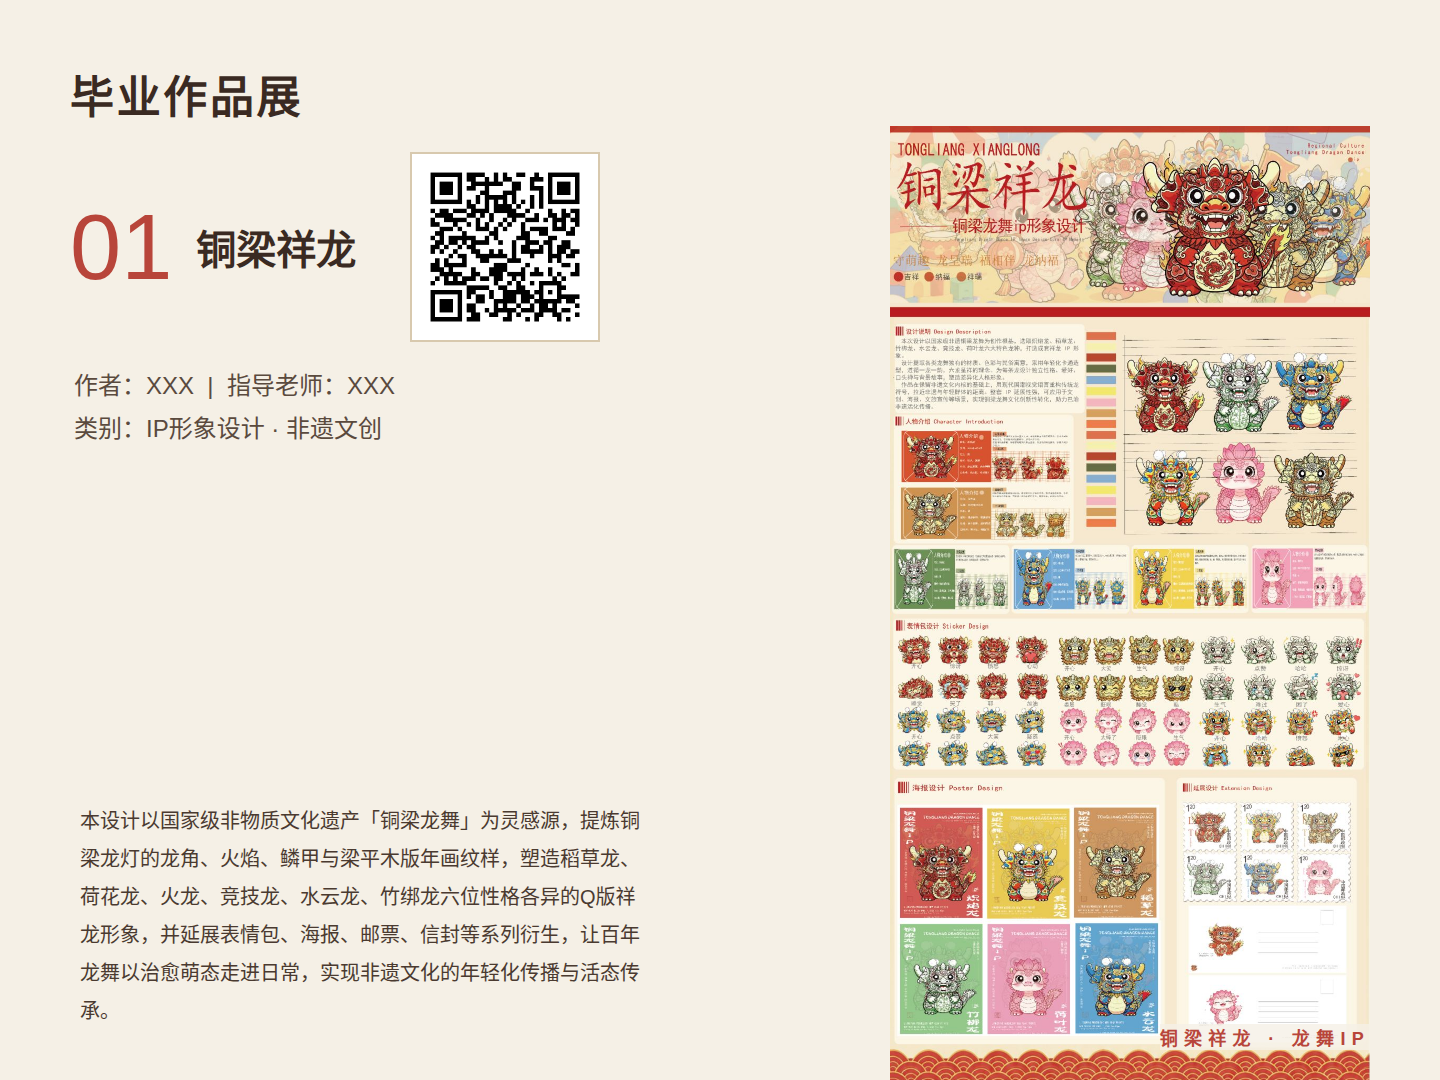
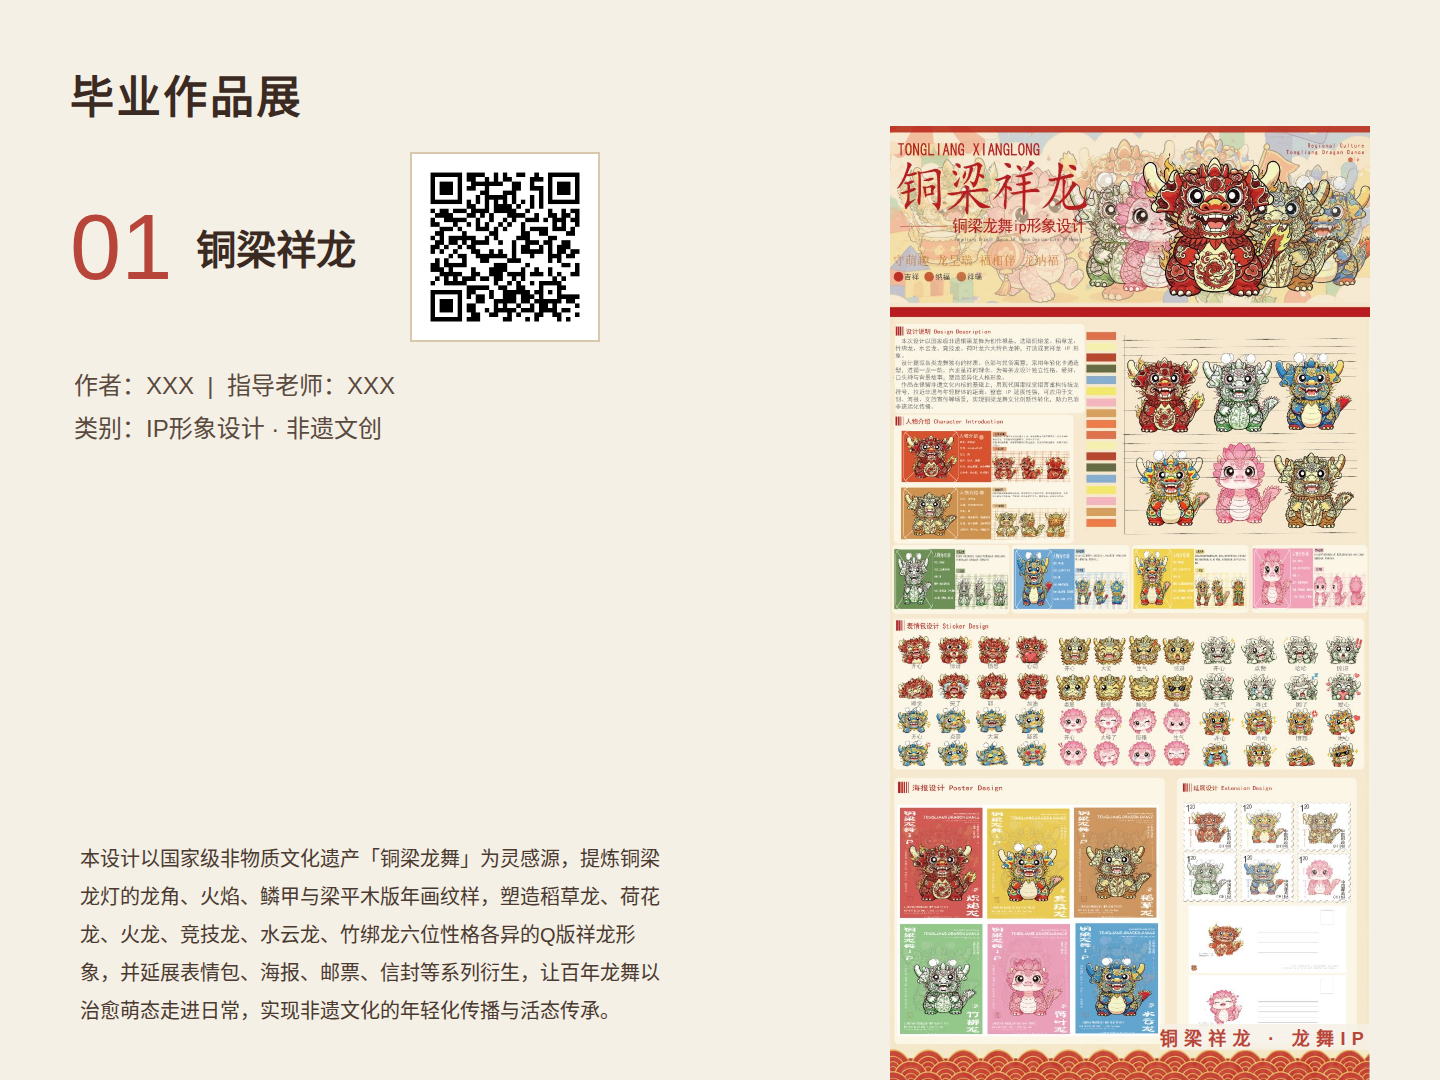
消除末行孤字

Changed region(s): [[0.0625, 0.7333, 0.4688, 0.9472]]

diff --git a/thumbnail.html b/thumbnail.html
@@ -17,7 +17,7 @@ h1{font-size:44px;font-weight:900;letter-spacing:.06em}
 .num .n{font-size:92px;font-weight:200;color:#b8453a;line-height:1}
 .num .t{font-size:40px;font-weight:900;white-space:nowrap}
 .meta{margin:22px 0 0 4px;font-size:24px;color:#5a4a3e;line-height:1.8}
-.desc{position:absolute;left:80px;bottom:36px;width:560px;font-size:20px;line-height:1.9;padding-bottom:14px;font-weight:300;color:#4a3a30}
+.desc{position:absolute;left:80px;bottom:36px;width:585px;font-size:20px;line-height:1.9;padding-bottom:14px;font-weight:300;color:#4a3a30}
 .right{flex:1;display:flex;justify-content:flex-end;align-items:flex-start}
 .right img{max-height:960px;object-fit:contain}
 .mark{position:absolute;right:70px;bottom:30px;font-size:18px;letter-spacing:.35em;color:#b8453a;font-weight:700;background:rgba(245,240,230,.8)}
